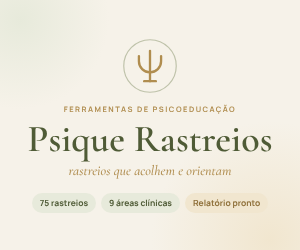
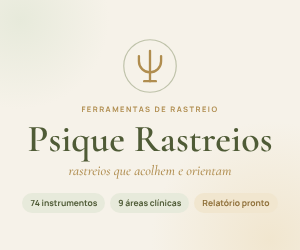
Termos de Uso, Política de Privacidade e ajustes éticos
- 'Ferramentas de Rastreio' no lugar de 'Ferramentas de Psicoeducação'
- aceite dos Termos no cadastro, registrado na conta
- consentimento do paciente antes de responder
- orientação para identificar o paciente só por iniciais
- webhook da Kiwify passa a guardar só os dados mínimos
- links legais no login, perfil e página de vendas; capas atualizadas

Claude-Session: https://claude.ai/code/session_01DPoSxw9cZMt3zpSbzaYwV5

diff --git a/termos.html b/termos.html
@@ -1,0 +1,89 @@
+<!doctype html>
+<html lang="pt-BR">
+<head>
+<meta charset="utf-8">
+<meta name="viewport" content="width=device-width, initial-scale=1, viewport-fit=cover">
+<title>Termos de Uso · Psique Rastreios</title>
+<link rel="icon" href="icons/icon.svg" type="image/svg+xml">
+<link rel="stylesheet" href="https://fonts.googleapis.com/css2?family=Cormorant+Garamond:wght@600&family=Manrope:wght@400;600;700&display=swap">
+<link rel="stylesheet" href="legal.css?v=2026.11.20-3">
+</head>
+<body>
+<main class="doc">
+  <a class="brand" href="vendas.html">Ψ Psique Rastreios</a>
+  <h1>Termos de Uso</h1>
+  <p class="meta">Versão de 20 de novembro de 2026</p>
+
+  <p>Estes Termos regulam o uso do <strong>Psique Rastreios</strong> ("Psique", "app" ou "serviço"), disponibilizado por <span data-cfg="responsavel"></span>, <span data-cfg="crp"></span>, contato: <span data-cfg="contato"></span> ("responsável"). Ao criar uma conta ou usar o app, você declara que leu e aceita estes Termos e a <a href="privacidade.html">Política de Privacidade</a>.</p>
+
+  <h2>1. O que é o Psique</h2>
+  <p>O Psique é uma ferramenta digital de <strong>rastreio (triagem)</strong> para profissionais de saúde. Ele permite aplicar instrumentos de rastreio a pacientes, de forma presencial ou por link, e gera um relatório com a pontuação, a faixa de resultado, sugestões de cuidado, texto de psicoeducação, hipótese a investigar e sugestão de encaminhamento.</p>
+
+  <h2>2. Quem pode usar</h2>
+  <p>O app é destinado exclusivamente a <strong>psicólogas e psicólogos com registro ativo no Conselho Regional de Psicologia</strong> e a outros profissionais de saúde legalmente habilitados a aplicar instrumentos de rastreio em sua área de atuação. Ao criar a conta, você declara que atende a essa condição. A conta é individual e intransferível.</p>
+
+  <h2>3. Natureza dos instrumentos</h2>
+  <ul>
+    <li><strong>Rastreio não é diagnóstico.</strong> Os resultados indicam sinais e hipóteses que devem ser interpretados pelo profissional, junto com a entrevista clínica, a história do paciente e outras fontes de informação.</li>
+    <li><strong>Os instrumentos do Psique não são testes psicológicos</strong> no sentido da Resolução CFP nº 31/2022 e não constam no Sistema de Avaliação de Testes Psicológicos (SATEPSI). Não devem ser usados como teste psicológico nem como fundamento único de laudos, pareceres, atestados ou decisões.</li>
+    <li><strong>Escalas validadas</strong> são instrumentos publicados por terceiros, usados conforme suas licenças e identificados com a referência de origem. Quando a tradução for "de trabalho", isso é informado e recomenda-se consultar a versão brasileira validada para uso formal.</li>
+    <li><strong>Rastreios Psique</strong> são instrumentos de triagem construídos a partir dos critérios do DSM-5-TR e da CID-11. Ainda não passaram por estudo de validação psicométrica, o que é informado na referência de cada um.</li>
+    <li>Os textos de psicoeducação, as sugestões de cuidado e de encaminhamento são orientações gerais e não substituem a conduta definida pelo profissional.</li>
+  </ul>
+
+  <h2>4. Responsabilidades do profissional</h2>
+  <ul>
+    <li>Escolher o instrumento adequado ao caso e interpretar os resultados com base no seu julgamento clínico, conforme o Código de Ética Profissional do Psicólogo e as normas do seu conselho.</li>
+    <li>Obter o consentimento do paciente antes da aplicação e, no caso de crianças e adolescentes, também dos pais ou responsáveis legais.</li>
+    <li>Na aplicação a distância, observar as normas do seu conselho para serviços mediados por tecnologia. Para psicólogos, isso inclui a Resolução CFP nº 11/2018 e o cadastro no e-Psi, quando aplicável.</li>
+    <li>Garantir o sigilo das informações do paciente e a segurança do aparelho onde os resultados ficam salvos.</li>
+    <li>Atuar como <strong>controlador dos dados dos seus pacientes</strong>, nos termos da Lei Geral de Proteção de Dados (Lei nº 13.709/2018), inclusive ao enviar e receber links e relatórios por aplicativos de mensagem.</li>
+    <li>Fazer a devolutiva ao paciente e decidir sobre encaminhamentos. A devolutiva automática do app, quando ativada pelo profissional, é apenas uma orientação inicial.</li>
+  </ul>
+
+  <h2>5. Situações de risco</h2>
+  <p>O Psique exibe alertas e contatos de apoio (CVV 188, SAMU 192, Ligue 180) quando certas respostas indicam risco. O app <strong>não monitora pacientes, não envia avisos em tempo real e não é um serviço de emergência</strong>. A avaliação e o manejo do risco são responsabilidade do profissional.</p>
+
+  <h2>6. Conta e acesso</h2>
+  <ul>
+    <li>Use o mesmo e-mail da compra para criar a conta. A liberação do acesso é automática após a confirmação do pagamento.</li>
+    <li>Você é responsável por manter sua senha em segurança e por toda atividade feita com a sua conta.</li>
+    <li>É proibido compartilhar a conta, revender o acesso ou usar meios automatizados para copiar o conteúdo do app.</li>
+  </ul>
+
+  <h2>7. Assinatura, pagamento e cancelamento</h2>
+  <ul>
+    <li>O acesso é oferecido por assinatura mensal, cobrada pela plataforma Kiwify, com renovação automática até o cancelamento.</li>
+    <li>Você pode cancelar a qualquer momento pela sua conta na Kiwify. O acesso continua até o fim do período já pago.</li>
+    <li>Em caso de pagamento atrasado, o acesso é mantido por até 3 dias e depois suspenso até a regularização.</li>
+    <li><strong>Direito de arrependimento:</strong> você pode desistir da contratação em até 7 dias a partir da compra, com reembolso integral, conforme o art. 49 do Código de Defesa do Consumidor. O pedido é feito pela Kiwify. Após o reembolso, o acesso é encerrado.</li>
+    <li>O preço pode ser reajustado mediante aviso prévio de pelo menos 30 dias. O novo valor só vale a partir da renovação seguinte.</li>
+  </ul>
+
+  <h2>8. Propriedade intelectual</h2>
+  <p>Os Rastreios Psique, os textos de psicoeducação, os relatórios, o design, a marca e o código do app pertencem à responsável. As escalas de terceiros pertencem aos seus autores e são usadas conforme as respectivas licenças. A assinatura dá direito de uso pessoal na sua prática profissional. Não é permitido copiar, reproduzir, distribuir, vender ou criar obras derivadas do conteúdo do app sem autorização por escrito.</p>
+
+  <h2>9. Disponibilidade e alterações do serviço</h2>
+  <p>A responsável se esforça para manter o app disponível e atualizado, mas não garante funcionamento ininterrupto ou livre de erros. Instrumentos podem ser incluídos, alterados ou retirados, por exemplo por motivo de licença ou de atualização científica. Mudanças relevantes serão comunicadas no app ou por e-mail.</p>
+
+  <h2>10. Limitação de responsabilidade</h2>
+  <p>As decisões clínicas tomadas a partir dos resultados são de responsabilidade exclusiva do profissional. A responsável não responde por danos decorrentes do uso dos resultados fora destes Termos, de falhas de aparelhos, conexões ou serviços de terceiros (como aplicativos de mensagem), nem pelo compartilhamento indevido de links pelo usuário. Nada nestes Termos afasta direitos garantidos pelo Código de Defesa do Consumidor.</p>
+
+  <h2>11. Suspensão e encerramento</h2>
+  <p>A conta pode ser suspensa ou encerrada em caso de violação destes Termos, uso por pessoa não habilitada, fraude ou uso que coloque pacientes em risco. Você pode encerrar a sua conta a qualquer momento, pedindo a exclusão pelo contato indicado acima.</p>
+
+  <h2>12. Alterações destes Termos</h2>
+  <p>Estes Termos podem ser atualizados. A versão em vigor fica sempre disponível nesta página, com a data no topo. Mudanças relevantes serão avisadas com antecedência. O uso do app depois da mudança indica a aceitação da nova versão.</p>
+
+  <h2>13. Lei aplicável e foro</h2>
+  <p>Estes Termos seguem as leis brasileiras. Fica eleito o foro da comarca de <span data-cfg="foro"></span>, ressalvado o direito do consumidor de propor ações no foro do seu domicílio.</p>
+
+  <h2>14. Contato</h2>
+  <p>Dúvidas, suporte e solicitações: <span data-cfg="contato"></span>.</p>
+
+  <p class="back"><a href="./">Voltar ao app</a> · <a href="privacidade.html">Política de Privacidade</a></p>
+</main>
+<script src="js/config.js?v=2026.11.20-3"></script>
+<script src="legal.js?v=2026.11.20-3"></script>
+</body>
+</html>

diff --git a/js/app.js b/js/app.js
@@ -189,7 +189,7 @@ function viewHome(){
     : !pro.name ? `<div class="banner no-print"><span>Complete seu perfil para personalizar convites e relatórios.</span><button class="btn primary" data-go="profile">Completar perfil</button></div>` : ''}
   <section class="access">
     <div style="display:flex;justify-content:center;margin-bottom:6px">${BIGLOGO}</div>
-    <h1>Ferramentas de Psicoeducação</h1>
+    <h1>Ferramentas de Rastreio</h1>
     <p class="tag">rastreios que acolhem e orientam</p>
     <div class="rule"></div>
     <div class="who">
@@ -246,7 +246,8 @@ function viewTool(){
   </section>
   <section class="card stack">
     <h3>Enviar para o paciente responder</h3>
-    <label class="f" for="pname">${s.resp && /criança/i.test(s.resp) ? 'Nome da criança' : 'Nome do paciente'}<input class="input" id="pname" placeholder="Ex.: Maria Souza" autocomplete="off"></label>
+    <label class="f" for="pname">${s.resp && /criança/i.test(s.resp) ? 'Nome da criança' : 'Nome do paciente'}<input class="input" id="pname" placeholder="Ex.: Maria S. ou M.S." autocomplete="off"></label>
+    <p class="small muted">Por privacidade, use só o primeiro nome ou as iniciais. O nome e as respostas viajam dentro do link.</p>
     ${s.noFeedback ? `<p class="small muted">Por cuidado clínico, este rastreio não mostra devolutiva automática ao paciente. O resultado chega só para você.</p>`
       : `<label class="check" for="showres"><input type="checkbox" id="showres"> Mostrar uma devolutiva ao paciente ao final (sem pontuação)</label>`}
     <button class="btn primary block" id="mklink">Gerar link</button>
@@ -283,6 +284,7 @@ function viewProfile(){
     <h3>Plano</h3>
     <p>${planPill()} <span class="muted small">Inclui todas as atualizações da biblioteca.</span></p>
     ${user ? `<p class="small muted">Conta: ${esc(user.email)}</p>` : ''}
+    <p class="small"><a href="termos.html" target="_blank" rel="noopener">Termos de Uso</a> · <a href="privacidade.html" target="_blank" rel="noopener">Política de Privacidade</a></p>
     <button class="btn ghost" id="logout">${LIVE ? 'Sair da conta' : 'Sair e apagar dados deste aparelho'}</button>
   </section>`;
 }
@@ -346,7 +348,7 @@ function viewReport(){
       <button class="btn soft no-print" id="refcopy">Copiar texto de encaminhamento</button>
     </section>` : ''}
     <details><summary>Respostas item a item</summary><table class="answers" style="margin-top:10px"><tbody>${answers}</tbody></table></details>
-    <p class="disclaimer">Este rastreio é uma ferramenta de triagem e psicoeducação. O resultado não é um diagnóstico e deve ser interpretado por profissional habilitado(a), junto com a entrevista clínica e a história do paciente. ${s.ref}</p>
+    <p class="disclaimer">Este rastreio é um instrumento de triagem. O resultado não é um diagnóstico e deve ser interpretado por profissional habilitado(a), junto com a entrevista clínica e a história do paciente. ${s.ref}</p>
     <div class="sign"><strong>${esc(who.name)}</strong><span class="muted">${esc(who.crp||'')}</span></div>
   </article>
   <div class="btn-row no-print">
@@ -380,7 +382,8 @@ function viewPatientIntro(){
     <div class="stack" style="text-align:left;position:relative">
       <p>Você recebeu o questionário <strong>${s.title}</strong>. São ${s.items.length} perguntas rápidas, cerca de ${s.minutes} minutos.</p>
       ${s.resp ? `<p class="small"><strong>Quem deve responder:</strong> ${esc(s.resp)}${child && patient.p ? `, pensando em ${esc(patient.p.split(' ')[0])}` : ''}.</p>` : ''}
-      <p class="muted small">Não existem respostas certas ou erradas. Responda com sinceridade. As respostas serão vistas apenas por ${esc(patient.n || 'seu(sua) profissional')}.</p>
+      <p class="muted small">Não existem respostas certas ou erradas. Responda com sinceridade.</p>
+      <label class="check" for="consent"><input type="checkbox" id="consent"> <span class="small">Concordo em responder e em enviar minhas respostas para ${esc(patient.n || 'meu(minha) profissional')}, que fica responsável por elas. Este questionário é uma triagem e não é um diagnóstico. As respostas não ficam guardadas em nenhum servidor. <a href="privacidade.html" target="_blank" rel="noopener">Saiba mais</a>.</span></label>
       <button class="btn primary block" id="start">Começar</button>
     </div>
   </section>
@@ -442,7 +445,7 @@ function shell(inner){
   return `<section class="access">
     <div style="display:flex;justify-content:center;margin-bottom:6px">${BIGLOGO}</div>
     <h1>Psique Rastreios</h1>
-    <p class="tag">ferramentas de psicoeducação</p>
+    <p class="tag">ferramentas de rastreio</p>
     <div class="rule"></div>
     <div class="stack" style="text-align:left;position:relative">${inner}</div>
   </section>`;
@@ -459,12 +462,13 @@ function viewLogin(){
     <form id="lf" class="stack">
       <label class="f" for="l-email">E-mail<input class="input" id="l-email" type="email" required autocomplete="email" value="${esc(S.email||'')}"></label>
       <label class="f" for="l-pass">Senha<input class="input" id="l-pass" type="password" required minlength="6" autocomplete="${signup ? 'new-password' : 'current-password'}"></label>
+      ${signup ? `<label class="check" for="l-terms"><input type="checkbox" id="l-terms" required> <span>Sou profissional de saúde habilitado(a) e li e aceito os <a href="termos.html" target="_blank" rel="noopener">Termos de Uso</a> e a <a href="privacidade.html" target="_blank" rel="noopener">Política de Privacidade</a>.</span></label>` : ''}
       <button class="btn primary" type="submit">${signup ? 'Criar minha conta' : 'Entrar'}</button>
     </form>
     <p id="lmsg" class="small" style="color:var(--t3)">${esc(S.msg||'')}</p>
     <p class="small muted">${signup ? 'Use o mesmo e-mail da sua compra na Kiwify. A senha precisa ter pelo menos 6 caracteres.' : 'Use o e-mail da sua compra na Kiwify.'}</p>
     ${signup ? '' : '<button class="back" data-mode="forgot">Esqueci minha senha</button>'}`) +
-    `<p class="foot">Assinatura ${esc(CFG.preco || '')}${CFG.checkoutUrl ? ` · <a href="${esc(CFG.checkoutUrl)}" target="_blank" rel="noopener">Assinar agora</a>` : ''}</p>`;
+    `<p class="foot">Assinatura ${esc(CFG.preco || '')}${CFG.checkoutUrl ? ` · <a href="${esc(CFG.checkoutUrl)}" target="_blank" rel="noopener">Assinar agora</a>` : ''}<br><a href="termos.html" target="_blank" rel="noopener">Termos de Uso</a> · <a href="privacidade.html" target="_blank" rel="noopener">Política de Privacidade</a></p>`;
 }
 function viewNoAccess(){
   const why = !sub ? `Não encontramos uma assinatura para <strong>${esc(user.email)}</strong>.`
@@ -555,7 +559,7 @@ function bind(){
   }
   const sim = $('#simulate'); if (sim) sim.onclick = () => startPatient({s:S.id, p:($('#pname').value||'').trim(), n:pro.name, c:pro.crp, w:pro.wa, v:!!($('#showres') && $('#showres').checked), sim:true});
 
-  const st = $('#start'); if (st) st.onclick = () => go('pQ', {i:0});
+  const st = $('#start'); if (st) st.onclick = () => { const c = $('#consent'); if (c && !c.checked) { toast('Marque a caixa de concordância para começar'); c.focus(); return; } go('pQ', {i:0}); };
   document.querySelectorAll('[data-opt]').forEach(b => b.onclick = () => {
     patient.a[S.i] = +b.dataset.opt;
     document.querySelectorAll('[data-opt]').forEach(x => x.setAttribute('aria-pressed', x === b));
@@ -601,7 +605,10 @@ function bind(){
         if (error) return msg(ERR(error.message));
         return msg('Se houver uma conta com este e-mail, você vai receber um link para criar uma nova senha.');
       }
-      const {data, error} = S.mode === 'signup' ? await sb.auth.signUp({email, password:pass}) : await sb.auth.signInWithPassword({email, password:pass});
+      if (S.mode === 'signup' && !($('#l-terms') && $('#l-terms').checked)) return msg('Para criar a conta, confirme que aceita os Termos de Uso e a Política de Privacidade.');
+      const {data, error} = S.mode === 'signup'
+        ? await sb.auth.signUp({email, password:pass, options:{data:{aceite_termos:new Date().toISOString(), versao_termos:CFG.termosVersao || ''}}})
+        : await sb.auth.signInWithPassword({email, password:pass});
       if (error) return msg(ERR(error.message));
       if (!data.session) return msg('Conta criada. Confirme seu e-mail pelo link que enviamos e depois entre.');
       user = data.session.user; await loadAccount(); afterLogin();

diff --git a/privacidade.html b/privacidade.html
@@ -1,0 +1,91 @@
+<!doctype html>
+<html lang="pt-BR">
+<head>
+<meta charset="utf-8">
+<meta name="viewport" content="width=device-width, initial-scale=1, viewport-fit=cover">
+<title>Política de Privacidade · Psique Rastreios</title>
+<link rel="icon" href="icons/icon.svg" type="image/svg+xml">
+<link rel="stylesheet" href="https://fonts.googleapis.com/css2?family=Cormorant+Garamond:wght@600&family=Manrope:wght@400;600;700&display=swap">
+<link rel="stylesheet" href="legal.css?v=2026.11.20-3">
+</head>
+<body>
+<main class="doc">
+  <a class="brand" href="vendas.html">Ψ Psique Rastreios</a>
+  <h1>Política de Privacidade</h1>
+  <p class="meta">Versão de 20 de novembro de 2026</p>
+
+  <p>Esta Política explica quais dados o <strong>Psique Rastreios</strong> trata, por quê, com quem compartilha e como você pode exercer seus direitos, conforme a Lei Geral de Proteção de Dados (Lei nº 13.709/2018, "LGPD").</p>
+
+  <div class="box"><strong>Em resumo:</strong> guardamos apenas os dados da conta do profissional e da assinatura. <strong>As respostas dos pacientes não ficam guardadas em nenhum servidor do Psique.</strong> Elas vão do paciente para o profissional dentro de um link e ficam salvas só no aparelho do profissional.</div>
+
+  <h2>1. Quem é a controladora</h2>
+  <p>A controladora dos dados dos profissionais usuários é <span data-cfg="responsavel"></span>, <span data-cfg="crp"></span>. Canal de atendimento sobre privacidade: <span data-cfg="contato"></span>.</p>
+
+  <h2>2. Dados dos profissionais (usuários do app)</h2>
+  <table>
+    <thead><tr><th>Dado</th><th>Para que usamos</th><th>Base legal (LGPD)</th></tr></thead>
+    <tbody>
+      <tr><td>E-mail e senha (guardada em formato cifrado, que nem nós conseguimos ler)</td><td>Criar a conta, fazer login e recuperar a senha</td><td>Execução de contrato (art. 7º, V)</td></tr>
+      <tr><td>Nome profissional, registro (CRP) e WhatsApp, se você preencher</td><td>Personalizar convites, relatórios e cartas de encaminhamento</td><td>Execução de contrato (art. 7º, V)</td></tr>
+      <tr><td>Data e versão do aceite destes documentos</td><td>Comprovar o aceite dos Termos e desta Política</td><td>Cumprimento de obrigação legal e exercício regular de direitos (art. 7º, II e VI)</td></tr>
+      <tr><td>Dados mínimos da assinatura recebidos da Kiwify: e-mail, situação, número do pedido e datas de cobrança</td><td>Liberar, manter ou encerrar o acesso</td><td>Execução de contrato (art. 7º, V)</td></tr>
+      <tr><td>Registros técnicos de acesso, como endereço IP, data e hora</td><td>Segurança e prevenção de fraudes</td><td>Legítimo interesse (art. 7º, IX) e Marco Civil da Internet</td></tr>
+    </tbody>
+  </table>
+  <p>Os dados de pagamento, como cartão, CPF e endereço de cobrança, são tratados diretamente pela Kiwify e não são recebidos nem guardados pelo Psique.</p>
+
+  <h2>3. Dados dos pacientes</h2>
+  <ul>
+    <li><strong>O profissional é o controlador</strong> dos dados dos seus pacientes. O Psique fornece a ferramenta, mas não recebe, não armazena e não tem acesso às respostas.</li>
+    <li>Quando o paciente responde por link, o nome informado pelo profissional e as respostas são colocados <strong>dentro do próprio link</strong>, que o paciente envia ao profissional pelo canal que escolher, por exemplo o WhatsApp. O conteúdo do link é <strong>codificado, mas não criptografado</strong>: quem tiver acesso ao link pode ler as respostas. Por isso, o app orienta a identificar o paciente <strong>só pelo primeiro nome ou pelas iniciais</strong> e a apagar as mensagens quando não forem mais necessárias.</li>
+    <li>Quando o profissional abre o resultado, ele fica salvo <strong>apenas no navegador daquele aparelho</strong>. Ele não é sincronizado com outros aparelhos nem enviado a servidores.</li>
+    <li>Antes de responder, o paciente confirma que concorda em enviar as respostas ao profissional. Respostas sobre saúde são dados pessoais sensíveis. O tratamento pelo profissional se apoia na tutela da saúde por profissionais de saúde e no consentimento do paciente (art. 11, I e II, "f").</li>
+    <li>No caso de crianças e adolescentes, o profissional deve obter o consentimento de pelo menos um dos pais ou do responsável legal (art. 14).</li>
+  </ul>
+
+  <h2>4. Com quem compartilhamos</h2>
+  <p>Usamos fornecedores que tratam dados em nosso nome, apenas para operar o serviço:</p>
+  <table>
+    <thead><tr><th>Fornecedor</th><th>Função</th><th>Onde ficam os dados</th></tr></thead>
+    <tbody>
+      <tr><td>Supabase</td><td>Login e banco de dados das contas e assinaturas</td><td>Estados Unidos</td></tr>
+      <tr><td>Kiwify</td><td>Venda, cobrança e avisos de assinatura</td><td>Brasil</td></tr>
+      <tr><td>Brevo</td><td>Envio de e-mails de recuperação de senha</td><td>União Europeia</td></tr>
+      <tr><td>GitHub Pages</td><td>Hospedagem do site e do app</td><td>Estados Unidos</td></tr>
+      <tr><td>Google Fonts</td><td>Carregamento das fontes do site (recebe o endereço IP do visitante)</td><td>Estados Unidos</td></tr>
+    </tbody>
+  </table>
+  <p>Não vendemos dados, não usamos dados para publicidade e não compartilhamos dados com terceiros além dos listados, exceto por ordem judicial ou obrigação legal.</p>
+
+  <h2>5. Transferência internacional</h2>
+  <p>Alguns fornecedores ficam fora do Brasil. Essas transferências ocorrem com fornecedores que adotam cláusulas contratuais e práticas de segurança compatíveis com a LGPD (art. 33).</p>
+
+  <h2>6. Por quanto tempo guardamos</h2>
+  <ul>
+    <li>Dados da conta: enquanto a conta existir. Após a exclusão, são apagados em até 30 dias, salvo o que precisar ser mantido por obrigação legal.</li>
+    <li>Registros de assinatura: pelo prazo exigido pela legislação fiscal e de defesa do consumidor (em geral, 5 anos).</li>
+    <li>Registros de acesso: pelo menos 6 meses, conforme o Marco Civil da Internet.</li>
+  </ul>
+
+  <h2>7. Armazenamento no seu navegador</h2>
+  <p>O app usa o armazenamento local do navegador (localStorage) para manter você conectado e para guardar, no seu aparelho, os resultados que você abriu. Não usamos cookies de publicidade nem ferramentas de rastreamento de comportamento. Você pode apagar esses dados saindo da conta ou limpando os dados do site no navegador. Apagar os dados do navegador remove os resultados salvos naquele aparelho.</p>
+
+  <h2>8. Segurança</h2>
+  <p>Usamos conexão criptografada (HTTPS), senhas guardadas de forma cifrada e regras de acesso no banco de dados que permitem a cada profissional ver apenas os próprios dados. Nenhum sistema é totalmente invulnerável. Em caso de incidente de segurança relevante, os titulares afetados e a Autoridade Nacional de Proteção de Dados serão comunicados, conforme a lei.</p>
+
+  <h2>9. Seus direitos</h2>
+  <p>Você pode pedir, a qualquer momento: confirmação de que tratamos seus dados, acesso, correção, anonimização ou exclusão de dados desnecessários, portabilidade, informação sobre compartilhamentos e revogação do consentimento, quando ele for a base do tratamento (art. 18). Envie o pedido para <span data-cfg="contato"></span>. Respondemos em até 15 dias. Você também pode reclamar à Autoridade Nacional de Proteção de Dados (ANPD).</p>
+  <p>Pacientes que quiserem exercer direitos sobre suas respostas devem procurar o profissional que aplicou o rastreio, que é o controlador desses dados.</p>
+
+  <h2>10. Menores de idade</h2>
+  <p>O app é usado por profissionais adultos. Rastreios sobre crianças são respondidos pelos pais ou responsáveis, por iniciativa do profissional, que deve obter o consentimento necessário.</p>
+
+  <h2>11. Alterações desta Política</h2>
+  <p>Esta Política pode ser atualizada. A versão em vigor fica sempre nesta página, com a data no topo. Mudanças relevantes serão avisadas no app ou por e-mail.</p>
+
+  <p class="back"><a href="./">Voltar ao app</a> · <a href="termos.html">Termos de Uso</a></p>
+</main>
+<script src="js/config.js?v=2026.11.20-3"></script>
+<script src="legal.js?v=2026.11.20-3"></script>
+</body>
+</html>

diff --git a/vendas.html b/vendas.html
@@ -3,7 +3,7 @@
 <head>
 <meta charset="utf-8">
 <meta name="viewport" content="width=device-width, initial-scale=1, viewport-fit=cover">
-<title>Psique Rastreios · Ferramentas de Psicoeducação</title>
+<title>Psique Rastreios · Ferramentas de Rastreio</title>
 <meta name="description" content="75 rastreios psicológicos para enviar ao paciente pelo WhatsApp. Ele responde no celular e você recebe o relatório pronto.">
 <meta name="theme-color" content="#6B7A4B">
 <meta property="og:title" content="Psique Rastreios">
@@ -258,19 +258,21 @@ footer{border-top:1px solid var(--line);padding-block:32px 48px;font-size:.85rem
     <details><summary>O paciente precisa criar conta?</summary><p>Não. Ele recebe o link, responde e envia as respostas para você pelo WhatsApp, sem cadastro.</p></details>
     <details><summary>Quais instrumentos são validados?</summary><p>PHQ-9, GAD-7, PHQ-15, módulo de pânico do PHQ, DASS-21, ASQ, PCL-5, PC-PTSD-5, ITQ, ACE e SNAP-IV. Os demais são rastreios de triagem Psique, construídos a partir dos critérios do DSM-5-TR e da CID-11 para levantar hipóteses e orientar encaminhamentos.</p></details>
     <details><summary>O resultado é um diagnóstico?</summary><p>Não. Os rastreios ajudam a identificar sinais e orientar a conversa clínica. A avaliação e o diagnóstico continuam sendo responsabilidade do profissional.</p></details>
-    <details><summary>Onde ficam os dados dos pacientes?</summary><p>As respostas viajam dentro do link que o paciente envia para você e ficam salvas apenas no aparelho onde você abre o resultado. Nenhum dado de paciente é guardado em servidor.</p></details>
+    <details><summary>Onde ficam os dados dos pacientes?</summary><p>As respostas viajam dentro do link que o paciente envia para você e ficam salvas apenas no aparelho onde você abre o resultado. Nenhum dado de paciente é guardado em servidor. Por privacidade, o app orienta a identificar o paciente só pelo primeiro nome ou pelas iniciais.</p></details>
     <details><summary>Como cancelo a assinatura?</summary><p>Pela sua conta na Kiwify, a qualquer momento. O acesso continua até o fim do período já pago.</p></details>
   </section>
 
   <footer>
-    <span>Psique Rastreios · ferramentas de psicoeducação</span>
+    <span>Psique Rastreios · ferramentas de rastreio</span>
+    <span data-resp></span>
+    <span><a href="termos.html">Termos de Uso</a> · <a href="privacidade.html">Política de Privacidade</a></span>
     <span>Ferramenta de apoio ao trabalho clínico. Não realiza diagnóstico.</span>
   </footer>
 </div>
 
-<script src="js/config.js?v=2026.11.20-2"></script>
-<script src="js/escalas-validadas.js?v=2026.11.20-2"></script>
-<script src="js/escalas-psicoeducativas.js?v=2026.11.20-2"></script>
+<script src="js/config.js?v=2026.11.20-3"></script>
+<script src="js/escalas-validadas.js?v=2026.11.20-3"></script>
+<script src="js/escalas-psicoeducativas.js?v=2026.11.20-3"></script>
 <script>
 (function(){
   var cfg = window.PSIQUE_CONFIG || {};
@@ -278,6 +280,7 @@ footer{border-top:1px solid var(--line);padding-block:32px 48px;font-size:.85rem
     if (cfg.checkoutUrl) { a.href = cfg.checkoutUrl; a.target = '_blank'; a.rel = 'noopener'; }
     else { a.href = '#assinar'; }
   });
+  if (cfg.responsavel) { document.querySelectorAll('[data-resp]').forEach(function(e){ e.textContent = 'Responsável técnica: ' + cfg.responsavel + (cfg.crp ? ' · ' + cfg.crp : ''); }); }
   var S = (window.PSI && window.PSI.scales) || null;
   if (!S) return;
   var ids = Object.keys(S).filter(function(i){ return !S[i].hidden; }), val = ids.filter(function(i){ return S[i].kind === 'validado'; }).length;

diff --git a/legal.css b/legal.css
@@ -1,0 +1,19 @@
+:root{--bg:#F6F2E9;--surface:#FFFDF8;--line:#E4DCCB;--ink:#2F3326;--muted:#6E7165;--olive:#6B7A4B;--olive-deep:#4F5B36;--gold:#B08D4F;--gold-soft:#F1E6CF;--warn:#A85E57}
+@media (prefers-color-scheme: dark){:root:not([data-theme="light"]){--bg:#1B1D16;--surface:#24271E;--line:#363A2C;--ink:#ECE7D8;--muted:#A6A797;--olive:#A4B27C;--olive-deep:#C3CF9C;--gold:#D3B57A;--gold-soft:#3A3324;--warn:#D08880;color-scheme:dark}}
+:root[data-theme="dark"]{--bg:#1B1D16;--surface:#24271E;--line:#363A2C;--ink:#ECE7D8;--muted:#A6A797;--olive:#A4B27C;--olive-deep:#C3CF9C;--gold:#D3B57A;--gold-soft:#3A3324;--warn:#D08880;color-scheme:dark}
+*{box-sizing:border-box}
+body{margin:0;background:var(--bg);color:var(--ink);font-family:"Manrope",system-ui,-apple-system,"Segoe UI",sans-serif;line-height:1.65;font-size:16px}
+.doc{max-width:760px;margin:0 auto;padding:32px max(20px,env(safe-area-inset-right,0px)) 64px max(20px,env(safe-area-inset-left,0px))}
+.brand{font-family:"Cormorant Garamond",Georgia,serif;font-size:1.4rem;font-weight:600;color:var(--olive-deep);text-decoration:none}
+h1{font-family:"Cormorant Garamond",Georgia,serif;font-size:2.4rem;line-height:1.1;margin:24px 0 4px;color:var(--olive-deep)}
+h2{font-family:"Cormorant Garamond",Georgia,serif;font-size:1.5rem;margin:36px 0 8px}
+.meta{color:var(--muted);font-size:.9rem;margin-top:0}
+a{color:var(--olive-deep)}
+ul{padding-left:22px}
+li{margin-bottom:8px}
+.box{background:var(--gold-soft);border-radius:14px;padding:16px 18px;margin:20px 0}
+table{width:100%;border-collapse:collapse;font-size:.9rem;margin:12px 0;display:block;overflow-x:auto}
+th,td{text-align:left;vertical-align:top;padding:10px 8px;border-bottom:1px solid var(--line)}
+th{font-weight:700;color:var(--muted);font-size:.8rem;text-transform:uppercase;letter-spacing:.04em}
+.fill{background:var(--gold-soft);color:var(--warn);font-weight:700;padding:0 4px;border-radius:4px}
+.back{margin-top:40px;font-size:.9rem}

diff --git a/index.html b/index.html
@@ -213,11 +213,11 @@ details summary{cursor:pointer;font-weight:600;color:var(--olive-deep)}
 <!-- ARTIFACT-BODY-START -->
 <div class="wrap" id="app" aria-live="polite"></div>
 <div class="toast" id="toast" hidden></div>
-<script src="js/vendor/supabase.min.js?v=2026.11.20-2"></script>
-<script src="js/config.js?v=2026.11.20-2"></script>
-<script src="js/escalas-validadas.js?v=2026.11.20-2"></script>
-<script src="js/escalas-psicoeducativas.js?v=2026.11.20-2"></script>
-<script src="js/app.js?v=2026.11.20-2"></script>
+<script src="js/vendor/supabase.min.js?v=2026.11.20-3"></script>
+<script src="js/config.js?v=2026.11.20-3"></script>
+<script src="js/escalas-validadas.js?v=2026.11.20-3"></script>
+<script src="js/escalas-psicoeducativas.js?v=2026.11.20-3"></script>
+<script src="js/app.js?v=2026.11.20-3"></script>
 <!-- ARTIFACT-BODY-END -->
 </body>
 </html>

diff --git a/supabase/functions/kiwify-webhook/index.ts b/supabase/functions/kiwify-webhook/index.ts
@@ -23,7 +23,13 @@ Deno.serve(async (req) => {
   const proximo = assinatura.next_payment ? Date.parse(assinatura.next_payment) : NaN;
   const agora = Date.now();
 
-  await sb.from("eventos_kiwify").insert({ tipo, email, payload: body });
+  // LGPD: guarda só o necessário para conferir a assinatura (sem nome, CPF, telefone, IP ou endereço)
+  const minimo = {
+    webhook_event_type: tipo, order_id: body.order_id ?? null, order_status: body.order_status ?? null,
+    product_id: body.Product?.product_id ?? null, subscription_status: assinatura.status ?? null,
+    next_payment: assinatura.next_payment ?? null, approved_date: body.approved_date ?? null,
+  };
+  await sb.from("eventos_kiwify").insert({ tipo, email, payload: minimo });
   if (!email) return new Response("sem e-mail", { status: 200 });
 
   let status: string | null = null;

diff --git a/js/config.js b/js/config.js
@@ -5,5 +5,10 @@ window.PSIQUE_CONFIG = {
   supabaseKey: 'sb_publishable_88sPv20T9csLi-8biKBpwQ_RnmvOqP1',
   checkoutUrl: 'https://pay.kiwify.com.br/mdAL7hc',
   preco: 'R$ 39,90 por mês',
-  versao: '2026.11.20-2'   // ao publicar mudanças, atualize aqui e nos ?v= do index.html e do vendas.html
+  responsavel: '',          // nome completo da responsável técnica (aparece nos Termos, na Política e na página de vendas)
+  crp: '',                  // registro profissional, ex.: CRP 06/123456
+  contato: '',              // e-mail para suporte e para pedidos de privacidade
+  foro: '',                 // cidade/UF do foro dos Termos de Uso
+  termosVersao: '2026-11-20',
+  versao: '2026.11.20-3'   // ao publicar mudanças, atualize aqui e nos ?v= do index.html e do vendas.html
 };

diff --git a/legal.js b/legal.js
@@ -1,0 +1,9 @@
+(function(){
+  var c = window.PSIQUE_CONFIG || {};
+  var nomes = {responsavel:'nome da responsável', crp:'CRP', contato:'e-mail de contato', foro:'cidade/UF'};
+  document.querySelectorAll('[data-cfg]').forEach(function(e){
+    var k = e.getAttribute('data-cfg');
+    if (c[k]) { e.textContent = c[k]; }
+    else { e.textContent = '[' + (nomes[k] || k) + ']'; e.className = 'fill'; }
+  });
+})();
